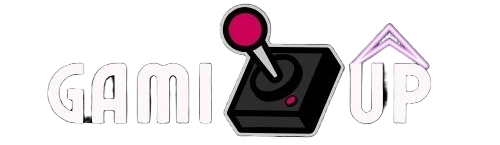
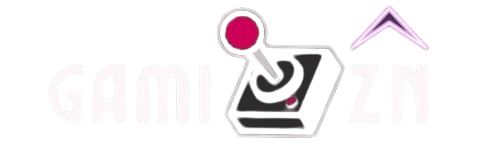
fixing bug

diff --git a/src/components/layout/Footer.tsx b/src/components/layout/Footer.tsx
@@ -15,7 +15,7 @@ const Footer = () => {
   };
 
   return (
-    <footer className="relative py-20 overflow-hidden">
+    <footer className="relative py-10 overflow-hidden">
       {/* Background Effects */}
       <div className="absolute inset-0 bg-gradient-to-br from-gaming-purple/10 via-gaming-blue/5 to-gaming-cyan/10" />
 
@@ -25,14 +25,16 @@ const Footer = () => {
         <div className="grid grid-cols-1 md:grid-cols-4 gap-12">
           {/* Brand */}
           <div className="space-y-6">
-            <div className="flex items-center gap-3">
-              <div className="w-12 h-12 bg-gradient-to-br from-gaming-purple to-gaming-blue rounded-xl flex items-center justify-center shadow-lg shadow-gaming-purple/25">
-                <Trophy className="w-6 h-6 text-white" />
-              </div>
-              <span className="text-2xl font-gaming font-black bg-gradient-to-r from-gaming-cyan to-gaming-blue bg-clip-text text-transparent">
-                GameArena
-              </span>
-            </div>
+            <motion.div
+              whileHover={{ scale: 1.05 }}
+              className="cursor-pointer relative z-10"
+            >
+              <img
+                src="/lovable-uploads/2.png"
+                alt="GameUp Logo"
+                className="h-10 sm:h-16 object-contain"
+              />
+            </motion.div>
             <p className="text-muted-foreground leading-relaxed">
               The ultimate esports challenge platform. Compete, win, and dominate in your favorite mobile games.
             </p>
@@ -80,10 +82,46 @@ const Footer = () => {
           </div>
         </div>
 
+        {/* Social Icons */}
+        <div className="w-full flex justify-center mt-10 mb-0 gap-10">
+          {/* Reddit */}
+          <a
+            href="#"
+            target="_blank"
+            rel="noopener noreferrer"
+            className="flex flex-col items-center text-white hover:text-red-500 transition-transform transform hover:scale-110 hover:drop-shadow-glow"
+          >
+            <FaReddit className="text-4xl" />
+            <span className="mt-1 text-sm font-medium">Reddit</span>
+          </a>
+
+          {/* Discord */}
+          <a
+            href="#"
+            target="_blank"
+            rel="noopener noreferrer"
+            className="flex flex-col items-center text-white hover:text-indigo-400 transition-transform transform hover:scale-110 hover:drop-shadow-glow"
+          >
+            <FaDiscord className="text-4xl" />
+            <span className="mt-1 text-sm font-medium">Discord</span>
+          </a>
+
+          {/* Twitch */}
+          <a
+            href="#"
+            target="_blank"
+            rel="noopener noreferrer"
+            className="flex flex-col items-center text-white hover:text-purple-500 transition-transform transform hover:scale-110 hover:drop-shadow-glow"
+          >
+            <FaTwitch className="text-4xl" />
+            <span className="mt-1 text-sm font-medium">Twitch</span>
+          </a>
+        </div>
+
         {/* Bottom Section */}
-        <div className="border-t border-white/10 mt-16 pt-8 flex flex-col md:flex-row justify-between items-center gap-4">
+        <div className="border-t border-white/10 mt-5 pt-8 flex flex-col md:flex-row justify-between items-center gap-4">
           <p className="text-muted-foreground">
-            © 2025 GameUp. All rights reserved.
+            © 2025 GameZN. All rights reserved.
           </p>
           <div className="flex gap-6 text-sm">
             <a href="#" className="text-muted-foreground hover:text-gaming-cyan transition-colors">Terms of Service</a>
@@ -92,45 +130,6 @@ const Footer = () => {
             <a href="#" className="text-muted-foreground hover:text-gaming-cyan transition-colors">Community Guidelines</a>
           </div>
         </div>
-
-       {/* Social Icons */}
-<div className="w-full flex justify-center mt-1 gap-8">
-  {/* Reddit */}
-  <a
-    href="#"
-    target="_blank"
-    rel="noopener noreferrer"
-    className="flex flex-col items-center text-white hover:text-red-500 transition-transform transform hover:scale-110 hover:drop-shadow-glow"
-  >
-    <FaReddit className="text-4xl" />
-    <span className="mt-1 text-sm font-medium">Reddit</span>
-  </a>
-
-  {/* Discord */}
-  <a
-    href="#"
-    target="_blank"
-    rel="noopener noreferrer"
-    className="flex flex-col items-center text-white hover:text-indigo-400 transition-transform transform hover:scale-110 hover:drop-shadow-glow"
-  >
-    <FaDiscord className="text-4xl" />
-    <span className="mt-1 text-sm font-medium">Discord</span>
-  </a>
-
-  {/* Twitch */}
-  <a
-    href="#"
-    target="_blank"
-    rel="noopener noreferrer"
-    className="flex flex-col items-center text-white hover:text-purple-500 transition-transform transform hover:scale-110 hover:drop-shadow-glow"
-  >
-    <FaTwitch className="text-4xl" />
-    <span className="mt-1 text-sm font-medium">Twitch</span>
-  </a>
-</div>
-
-
-
       </div>
     </footer>
   );

diff --git a/index.html b/index.html
@@ -3,9 +3,9 @@
   <head>
     <meta charset="UTF-8" />
     <meta name="viewport" content="width=device-width, initial-scale=1.0" />
-    <title>GamiUp - Ultimate Esports Challenge Platform</title>
-    <meta name="description" content="GamiUp - Ultimate Esports Challenge Platform" />
-    <meta name="author" content="GameUP" />
+    <title>GamiZN - Ultimate Esports Challenge Platform</title>
+    <meta name="description" content="GamiZN - Ultimate Esports Challenge Platform" />
+    <meta name="author" content="GameZN" />
     <script src="https://checkout.razorpay.com/v1/checkout.js"></script>
 
     <link rel="icon" type="image/png" href="public\lovable-uploads\1.png" />
@@ -16,13 +16,13 @@
     <link rel="preconnect" href="https://fonts.gstatic.com" crossorigin>
     <link href="https://fonts.googleapis.com/css2?family=Orbitron:wght@400;700;900&family=Audiowide&display=swap" rel="stylesheet">
 
-    <meta property="og:title" content="GamiUp" />
+    <meta property="og:title" content="GamiZN" />
     <meta property="og:description" content="Contest Gaming Platform" />
     <meta property="og:type" content="website" />
     <meta property="og:image" content="#" />
 
     <meta name="twitter:card" content="summary_large_image" />
-    <meta name="twitter:site" content="GamiUp" />
+    <meta name="twitter:site" content="GamiZN" />
     <meta name="twitter:image" content="#" />
   </head>
 

diff --git a/src/components/home/HeroSection.tsx b/src/components/home/HeroSection.tsx
@@ -48,7 +48,7 @@ const HeroSection = () => {
           transition={{ duration: 0.8, delay: 0.2 }}
           className="text-5xl md:text-7xl font-gaming font-black mb-6 bg-gradient-to-r from-gaming-purple to-gaming-cyan bg-clip-text text-transparent leading-tight"
         >
-          We don’t gamble. We GamiUp.
+          We don’t gamble. We GamiZN.
         </motion.h1>
 
         {/* Subtitle */}
